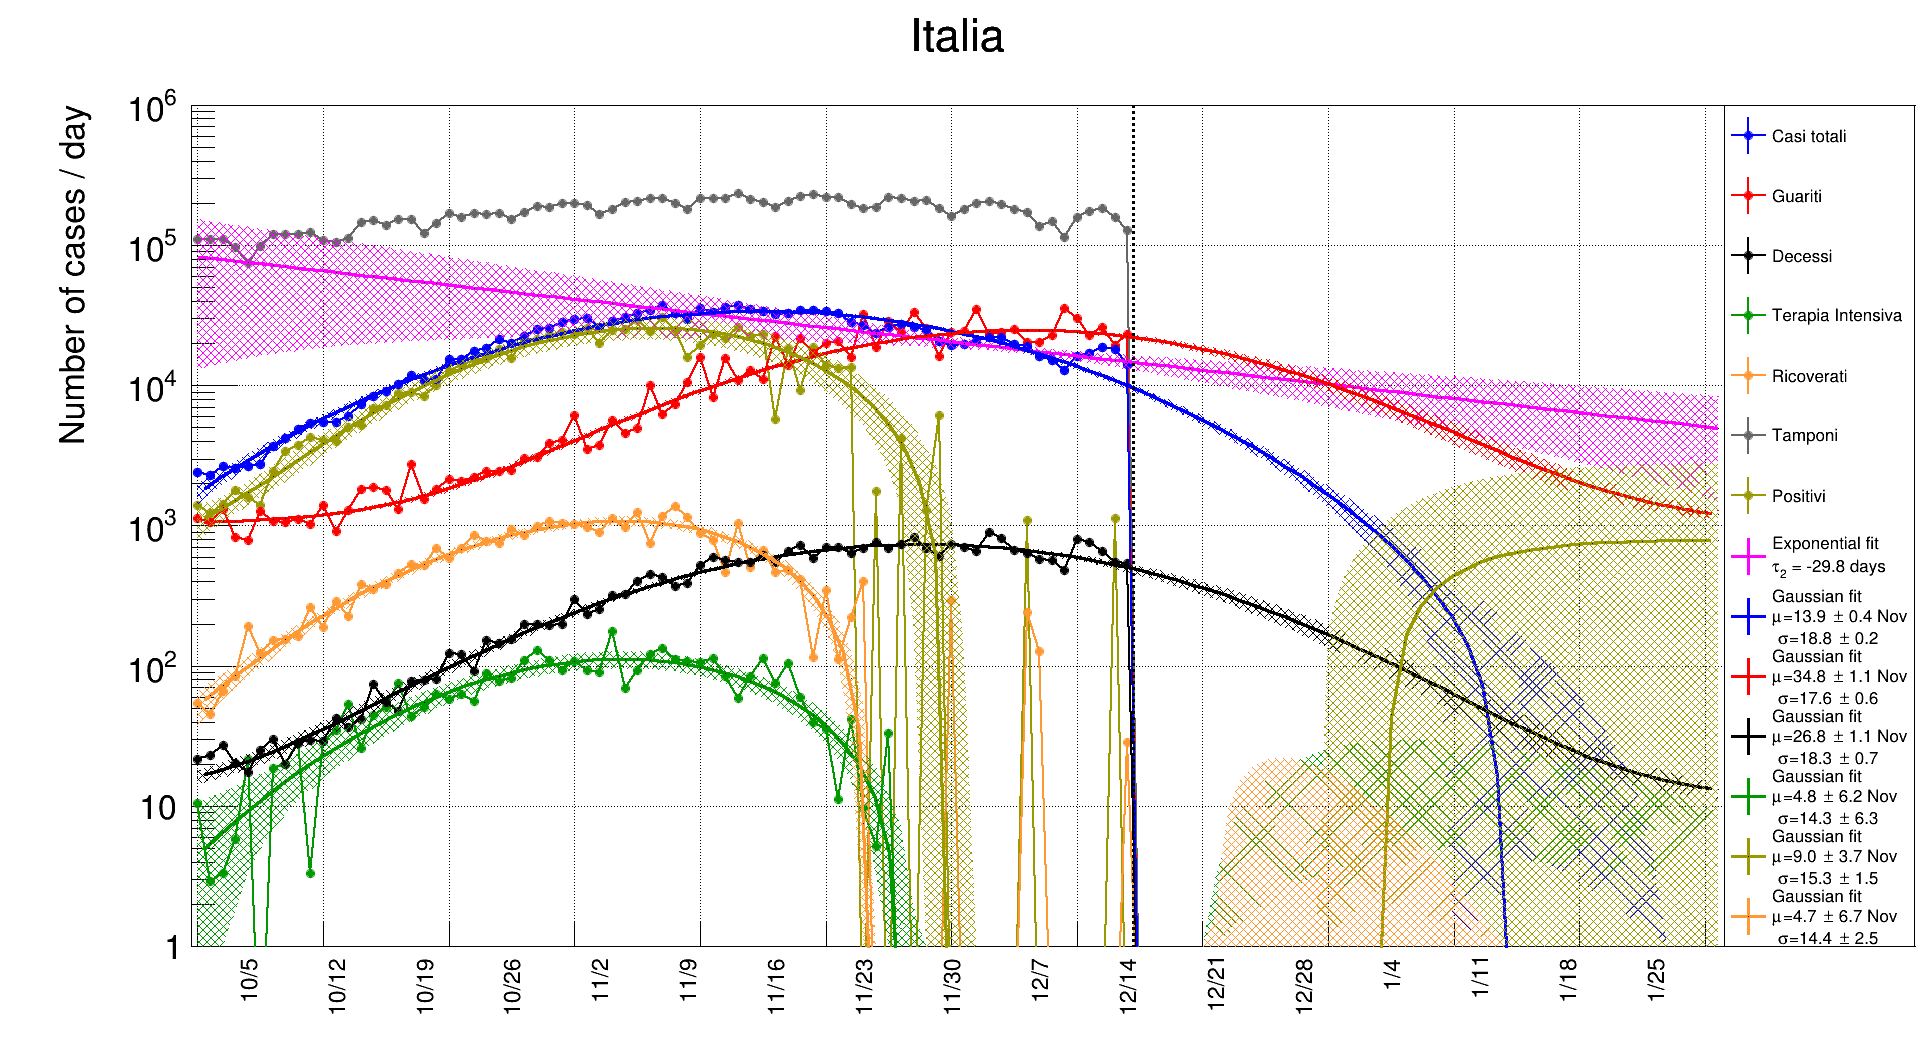
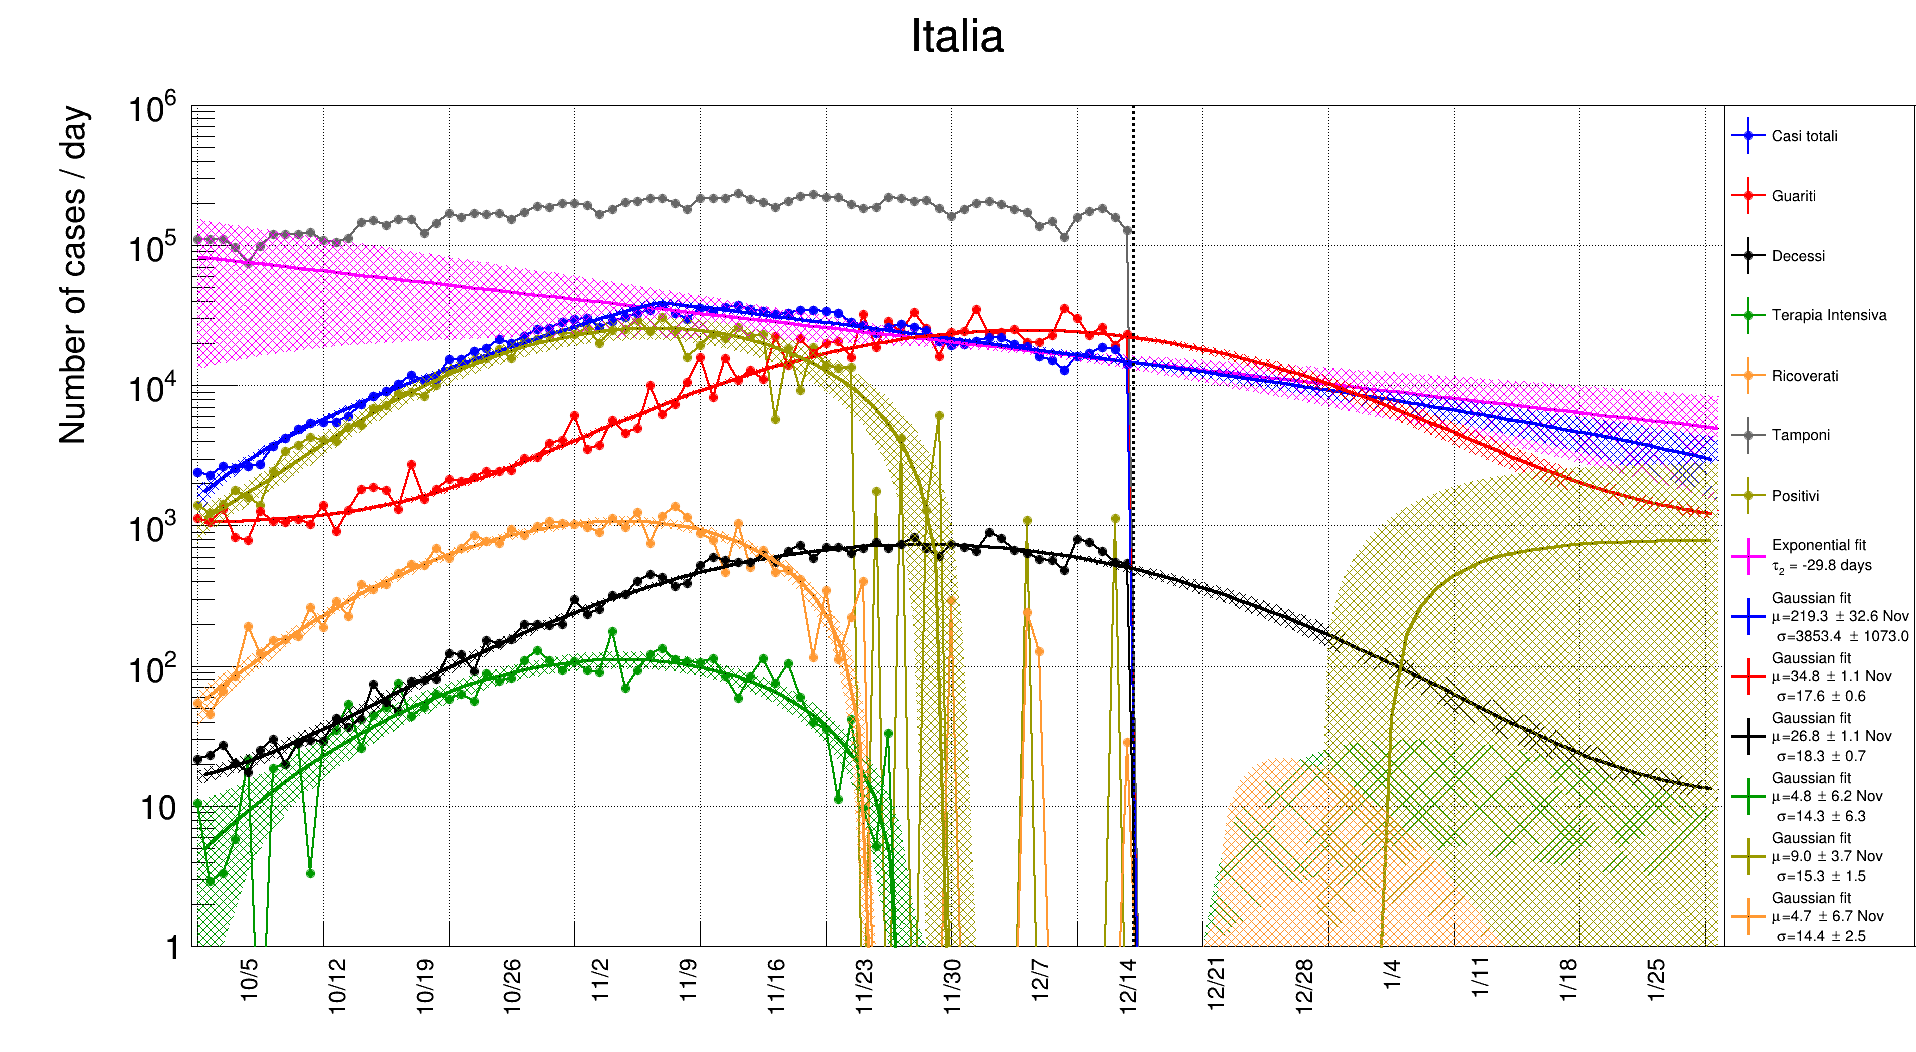
fitGaussExp working (continuo, non derivata continua)

diff --git a/tools.py b/tools.py
@@ -772,15 +772,9 @@ def fitGaussExp(h, places, firstDate, lastDate, predictionDate, fitOption="0SE",
     functs_err = {}
     for place in places:
         print "### Fit fitGaussExp %s ###"%place
-#        functs[place] = copy.copy(ROOT.TF1("function"+place,"[0]*exp( ((x<=[5])* (-0.5) * ((x-[1])/[2])**2) + ((x>[5])*(-0.5)*(([5]-[1])/[2] )**2 / (1. + [4]*[5]) * (1. + [4]*x)) ) + [3]",firstDate,predictionDate))
-        functs[place] = copy.copy(ROOT.TF1("function"+place,"[0]*exp( ((x<=((-[1]+2*[2])/(2*[2]*[3]+1)))* (-0.5) * ((x-[1])/[2])**2) + ((x>((-[1]+2*[2])/(2*[2]*[3]+1)))*(-0.5)*((((-[1]+2*[2])/(2*[2]*[3]+1))-[1])/[2] )**2 / (1. + [4]*((-[1]+2*[2])/(2*[2]*[3]+1))) * (1. + [4]*x)) ) + [3]",firstDate,predictionDate))
-
-#((-[1]+2*[2])/(2*[2]*[3]+1))
-
-#        functs[place] = copy.copy(ROOT.TF1("function"+place,"[0]*exp(-0.5*( (x<=[1])*(x-[1])/[2] + (x>[1])*(x-[1])/[4] )**2) + [3]",firstDate,predictionDate))
+        functs[place] = copy.copy(ROOT.TF1("function"+place,"[0]*exp( (x<=[5])*(-0.5*(x-[1])**2/[2]) - (x>[5])*(0.5*([5]-[1])**2/[2])/(1+[4]*[5])*(1+[4]*x) ) + [3]",firstDate,predictionDate))
         fixSigma = 20
         functs[place].SetParameters(h[place].GetBinContent(h[place].GetMaximumBin()), h[place].GetMean(), fixSigma, 0, fixSigma)
-#        functs[place].SetParameters(h[place].GetBinContent(h[place].GetMaximumBin()), h[place].GetMean(), fixSigma, 0, fixSigma)
 #        functs[place].FixParameter(5, 100000)
 #        functs[place].FixParameter(3, 0)
 #        print h[place]
@@ -788,22 +782,19 @@ def fitGaussExp(h, places, firstDate, lastDate, predictionDate, fitOption="0SE",
         functs_res[place] = h[place].Fit(functs[place], fitOption,"",firstDate-0.5,lastDate+1.5)
         functs[place].SetParameter(5, functs[place].GetParameter(1))
 #        functs[place].FixParameter(5, h[place].GetMean())
-        functs[place].FixParameter(4, functs[place].GetParameter(2))
+#        functs[place].FixParameter(4, 0)
         functs_res[place] = h[place].Fit(functs[place], fitOption,"",firstDate-0.5,lastDate+1.5)
 #        functs[place].FixParameter(5, h[place].GetMean())
-        functs[place].ReleaseParameter(4)
-        functs[place].SetParameter(4, functs[place].GetParameter(2))
+#        functs[place].ReleaseParameter(4)
+        functs[place].SetParameter(4, 0)
         functs_res[place] = h[place].Fit(functs[place], fitOption,"",firstDate-0.5,lastDate+1.5)
         functs[place].ReleaseParameter(5)
-        functs[place].SetParameter(4, functs[place].GetParameter(2))
         functs[place].SetParameter(5, h[place].GetMean())
         functs[place].ReleaseParameter(4)
         functs_res[place] = h[place].Fit(functs[place], fitOption,"",firstDate-0.5,lastDate+1.5)
         functs[place].ReleaseParameter(3)
         functs[place].ReleaseParameter(4)
-        functs[place].SetParameter(4, functs[place].GetParameter(2))
 #        functs[place].FixParameter(5, functs[place].GetParameter(5))
-#        functs[place].FixParameter(4, functs[place].GetParameter(4))
         functs_res[place] = h[place].Fit(functs[place], fitOption,"",firstDate-0.5,lastDate+1.5)
         color = colors[places.index(place)]
         functs[place].SetLineColor(color)

diff --git a/scriptItaly.py b/scriptItaly.py
@@ -5,7 +5,7 @@ from tools import colors, fillDataRegioni, fillDataISTATpickle, newCases, getRat
 
 placesTest = []
 #placesTest = ["Italia","LaSpezia"]
-#placesTest = ["Italia"]
+placesTest = ["Italia"]
 #placesTest = ["Veneto"]
 startFromZero = False
 daysSmearing = 1
@@ -192,7 +192,8 @@ for place in places:
             positiveHisto(histo[place])
 
 fits, fits_res, fits_error              = fitErf(confirmes_h,      places, firstDate, lastDate, predictionsDate)
-fitdiffs, fitdiffs_res, fitdiffs_error  = fitGaussAsymmetric(newConfirmes_h, places, firstDate, lastDate, predictionsDate)
+#fitdiffs, fitdiffs_res, fitdiffs_error  = fitGaussAsymmetric(newConfirmes_h, places, firstDate, lastDate, predictionsDate)
+fitdiffs, fitdiffs_res, fitdiffs_error  = fitGaussExp(newConfirmes_h, places, firstDate, lastDate, predictionsDate)
 fitexps, fitexps_res, fitexps_error                = fitExp(newConfirmes_h, places, lastDate-14, lastDate, predictionsDate)
 fitexptotals, fitexptotals_res, fitexptotals_error = fitExp(confirmes_h,    places, lastDate-14-1, lastDate-1, predictionsDate)
 #fitexptotals, fitexptotals_res, fitexptotals_error = fitExp(confirmes_h,    places, lastDate-8, lastDate, predictionsDate)
